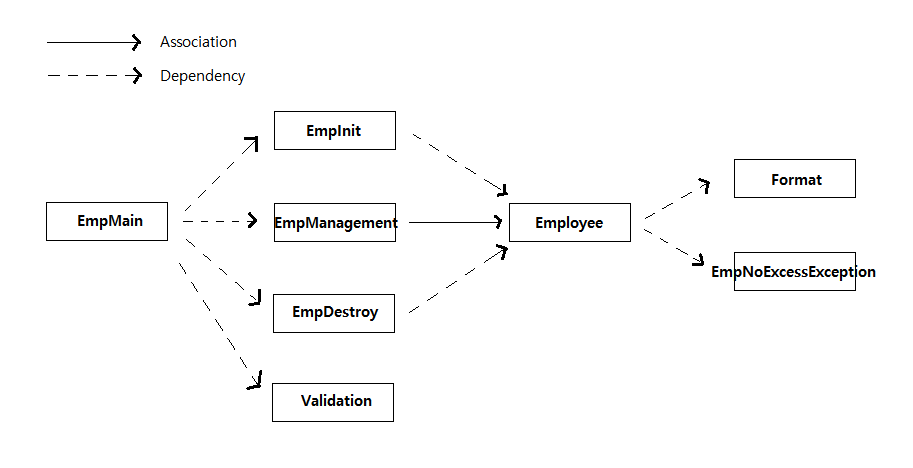
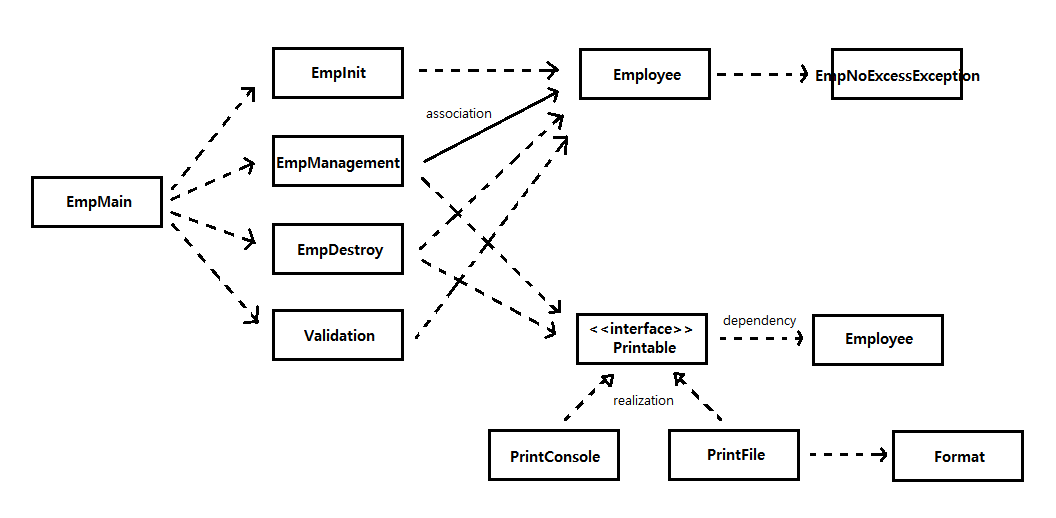
리팩토링

diff --git a/docs/review_v1.md b/docs/review_v1.md
@@ -17,6 +17,7 @@
 		* 클래스간 공유 가능하다는 오해 → ∵ static 멤버는 동일 클래스 모든 객체에 의해 공유
 		* 클래스간 공유 위해서는 static 필드도 메서드 통해 전달 필요
 	* 초기화/종료, CRUD 메소드 → static 선언 고민
+		* static 메소드에서 사용하기 위해 필드(ex. Printable) static 선언
 		* 클래스 분리 고민
 * 빌더 패턴
 	* 입력 시 공란(Null)으로 입력 방지(점층적 생성자 패턴 대안)

diff --git a/README.md b/README.md
@@ -37,6 +37,8 @@
 
 ### UML
 <img src="img/class_diagram.png" width="650" height="270"></br>
+* Employee 객체 기능 고민
+* Printable과 Employee 객체 관계 고민
 
 ##### [목차로 이동](#목차)
 
